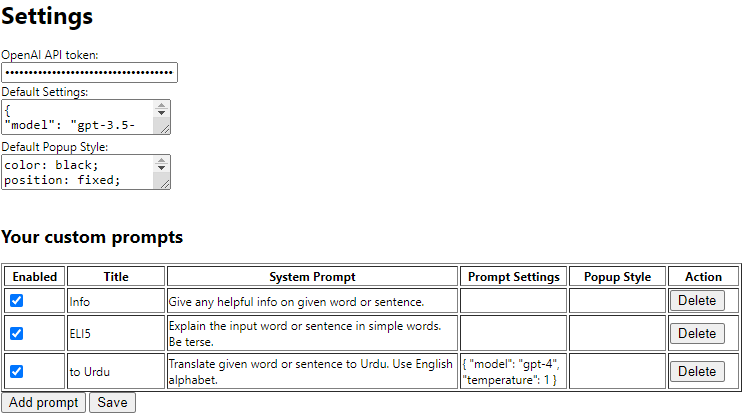
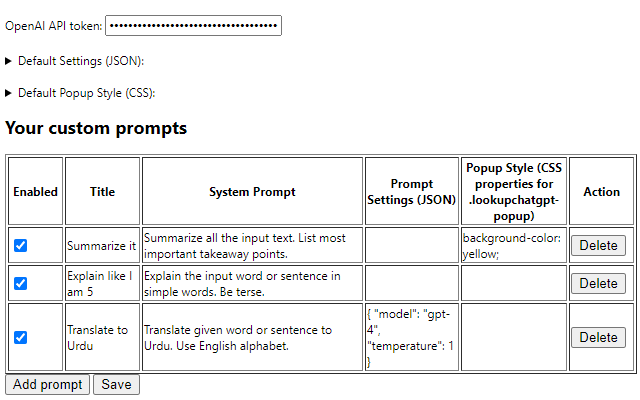
minor updates + screens

diff --git a/background.js b/background.js
@@ -22,34 +22,41 @@ function handleLocalStorageChanges(changes, _) {
 
 function handleContextMenuClicked(info, tab) {
   const menuItemIdParts = info.menuItemId.split('-');
-  const messageId = menuItemIdParts[menuItemIdParts.length - 1];
+  const promptId = menuItemIdParts[menuItemIdParts.length - 1];
 
   chrome.storage.local.get(null, function (result) {
+    const tabId = tab.id;
     const selectedText = info.selectionText;
-    const prompt = result.promptData[messageId];
+    const prompt = result.promptData[promptId];
+    
     const token = result.token;
-    const promptSettings = prompt.promptSettings || result.defaultPromptSettings;
-    const popupStyle = prompt.popupStyle || result.defaultPopupStyle;
-    sendRequestToAPI(selectedText, tab.id, prompt.content, token, promptSettings, popupStyle);
+    const promptSettings = prompt.promptSettings;
+    const popupStyle = prompt.popupStyle;
+    const promptTitle = prompt.title;
+    const promptContent = prompt.content;
+    
+    sendRequestToAPI({selectedText, tabId, token, promptId, promptSettings, popupStyle , promptTitle, promptContent,});
   });
 };
 
-function sendRequestToAPI(selectedText, tabId, systemPrompt, token, promptSettings, popupStyle) {
+function sendRequestToAPI(lookup) {
   const requestData = {
     'model': 'gpt-3.5-turbo',
     'messages': [
-      { 'role': 'system', 'content': systemPrompt },
-      { 'role': 'user', 'content': selectedText }
+      { 'role': 'system', 'content': lookup.promptContent },
+      { 'role': 'user', 'content': lookup.selectedText }
     ],
   };
-  const settingsOverride = JSON.parse(promptSettings);
-  for (let key in settingsOverride) {
-    requestData[key] = settingsOverride[key] || requestData[key];
+  if (lookup.promptSettings) {
+    const settingsOverride = JSON.parse(lookup.promptSettings);
+    for (let key in settingsOverride) {
+      requestData[key] = settingsOverride[key] || requestData[key];
+    }
   }
   
   fetch("https://api.openai.com/v1/chat/completions", {
     "headers": {
-      "authorization": `Bearer ${token}`,
+      "authorization": `Bearer ${lookup.token}`,
       "content-type": "application/json",
     },
     "body": JSON.stringify(requestData),
@@ -58,7 +65,11 @@ function sendRequestToAPI(selectedText, tabId, systemPrompt, token, promptSettin
     "credentials": "include"
   })
   .then(response => response.json())
-  .then(resJson => chrome.tabs.sendMessage(tabId, { action: "displayResult", data: resJson.choices[0].message.content, popupStyle, selectedText }))
+  .then(resJson => chrome.tabs.sendMessage(lookup.tabId, {
+    action: "displayResult",
+    lookupResult: resJson.choices[0].message.content,
+    lookup,
+  }))
   .catch(error => console.error(error));
 }
 

diff --git a/options.html b/options.html
@@ -14,15 +14,19 @@
     <h1>Settings</h1>
     <label for="authToken">OpenAI API token:</label>
     <input type="password" id="authToken"><br/>
-    <label for="defaultPromptSettings">Default Settings (JSON): </label><br/>
+    <br/>
+    <details>
+    <summary><label for="defaultPromptSettings">Default Settings (JSON): </label></summary>
     <pre id="defaultPromptSettings">
     {
         "model": "gpt-3.5-turbo"
     }
     </pre>
-    See for more parameters <a href="https://platform.openai.com/docs/api-reference/chat/create">https://platform.openai.com/docs/api-reference/chat/create</a><br/>
+    See for more parameters <a href="https://platform.openai.com/docs/api-reference/chat/create">https://platform.openai.com/docs/api-reference/chat/create</a>
+    </details>
     <br/>
-    <label for="defaultPopupStyle">Default Popup Style (CSS): </label><br/>
+    <details>
+    <summary>Default Popup Style (CSS):</summary>
     <pre id="defaultPopupStyle">
     .lookupchatgpt-popup {
         color: black;
@@ -35,9 +39,11 @@
         border: 1px solid black;
         z-index: 999999;
         font-family: Arial, sans-serif;
+        margin-right: 10px;
     }
     </pre>
-    <br/>
+    </details>
+    
 
     <h2>Your custom prompts</h2>
     <table id="promptTable" border="1" width="100%">

diff --git a/popup.js b/popup.js
@@ -32,6 +32,7 @@ function displayResult(lookup, lookupResult) {
           border: 1px solid black;
           z-index: 999999;
           font-family: Arial, sans-serif;
+          margin-right: 10px;
       }
     `;
     document.head.appendChild(customStyle);
@@ -40,7 +41,8 @@ function displayResult(lookup, lookupResult) {
   const messageContainer = document.createElement("div");
   messageContainer.innerHTML = `
     <div id="lookupchatgpt-prompt-id-${lookup.promptId}" class="lookupchatgpt-popup" style="${lookup.popupStyle}">
-      <b>[${lookup.promptTitle}: ${lookup.selectedText}]</b> ${lookupResult}
+      <b>[${lookup.promptTitle}: ${lookup.selectedText}]</b><br/>
+      ${lookupResult}
       <button style="position: absolute; top: 0; right: 0;">x</button>
     </div>
   `;
